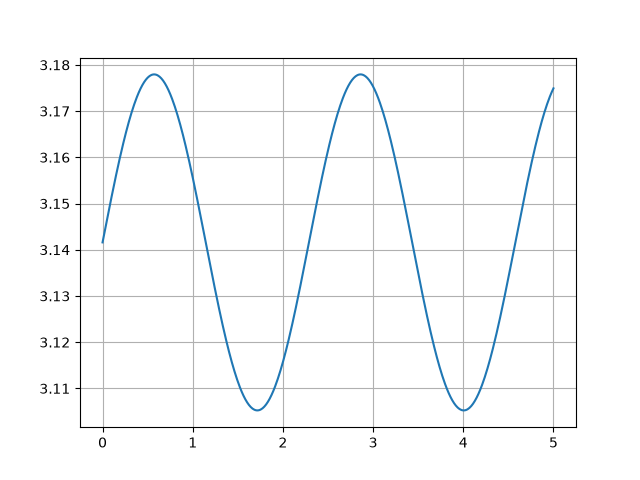
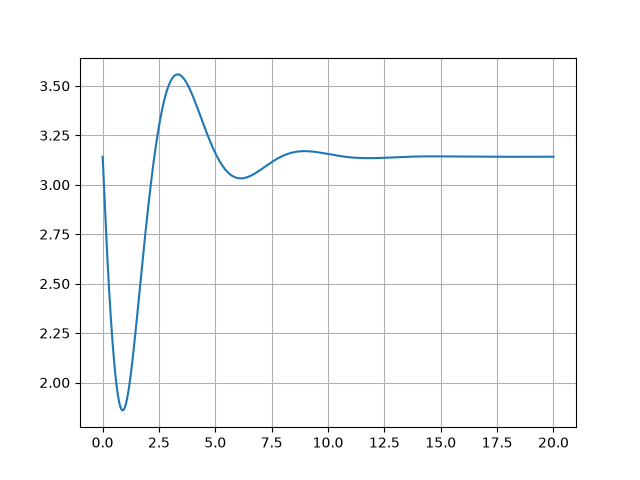
state space model and LQR controller

diff --git a/main.py b/main.py
@@ -6,17 +6,48 @@ import numpy as np
 from CartPole import CartPole
 
 # Parameters defining the sys
-n = 500 # Number of samples
+n = 2000 # Number of samples
 dt = 0.01 # System timebase
 
-M = 5 # Mass of Cart
-m = 0.2 # mass of pendulum bob
+M = 1 # Mass of Cart
+m = 0.1 # mass of pendulum bob
 l = 1 # length from pivot to pendulum's center of mass
 g = 9.8 # graviational acceleration
-b = 0.0 # cart damping (friction between cart and track)
+b = 10.0 # cart damping (friction between cart and track)
+I = None # moment of Inertia of the rod
+
 z0 = [0, 0, np.pi, 0.1] # initial state [ x , x_dot , theta , theta_dot ]
 
-cart_pole = CartPole(M, m, l, g, b)
+cart_pole = CartPole(M, m, l, g, b, I)
+
+
+# building the A and B matrices
+if I is None:
+    I = (1/3) * m * l**2
+
+D = (M+m)*(I + m*l**2) - (m*l)**2
+
+A = [[0, 1, 0, 0],
+     [0, -(I + m*l**2)*b/D, m**2*g*l**2/D, 0],
+     [0, 0, 0, 1],
+     [0, m*l*b/D, m*g*l*(M+m)/D, 0]]
+
+B = [[0],
+     [(I+m*l**2)/D],
+     [0],
+     [m*l/D]] 
+
+# building Q and R
+
+Q = [[0, 0, 0, 0],
+     [0, 1, 0, 0],
+     [0, 0, 1000, 0],
+     [0, 0, 0, 1000]]
+
+R = [[0.1]]
+
+# LQR
+K, S, E = control.lqr(A, B, Q, R)
 
 def rk4_step(z, u, dt, cartpole):
     k1 = cartpole.cartpole_dynamics(z, u)
@@ -31,7 +62,7 @@ z = z0.copy()
 state_history = [z.copy()]
 
 for i in range(n-1):
-    u = 0 #controller(z)  # e.g. -K @ (z - z_eq), or 0 for open-loop test
+    u = -K @ z #controller(z)  # e.g. -K @ (z - z_eq), or 0 for open-loop test
     z = rk4_step(z, u, dt, cart_pole)
     state_history.append(z.copy())
 

diff --git a/CartPole.py b/CartPole.py
@@ -10,13 +10,15 @@ class CartPole:
                 m = 0.2, # mass of pendulum bob
                 l = 0.5, # length from pivot to pendulum's center of mass
                 g = 9.8, # graviational acceleration
-                b = 0.0 # cart damping (friction between cart and track)
+                b = 0.0, # cart damping (friction between cart and track)
+                I = None
                 ):
         self.M = M
         self.m = m
         self.l = l
         self.g = g
         self.b = b
+        self.I = I
 
     def cartpole_dynamics(self, z, u):
         M = self.M
@@ -24,14 +26,21 @@ class CartPole:
         l = self.l
         g = self.g
         b = self.b
+        I = self.I
+        
+        if I is None:
+            I = (1/3) * m * l**2  # uniform rod about center of mass
         
         x, x_dot, theta, theta_dot = z
         sin_t, cos_t = np.sin(theta), np.cos(theta)
-
-        x_ddot = (u - b*x_dot + m *l*theta_dot*sin_t - m*g*sin_t*cos_t)/ \
-                 (M + m - m*cos_t**2)
-
-        theta_ddot = (g*sin_t - cos_t*(u - b*x_dot + m*l*theta_dot**2*sin_t)/(M+m)) / \
-                     (l*(4/3 - m*cos_t**2/(M+m)))
         
+        u = u.item()
+
+        F = u - b*x_dot + m*l*theta_dot**2*sin_t
+        D = (M+m)*(I + m*l**2) - (m*l*cos_t)**2
+        
+        x_ddot = ((I + m*l**2)*F - m**2*g*l**2*sin_t*cos_t) / D
+        theta_ddot = (m*g*l*(M+m)*sin_t - m*l*cos_t*F) / D
+        
+            
         return np.array([x_dot, x_ddot, theta_dot, theta_ddot])
